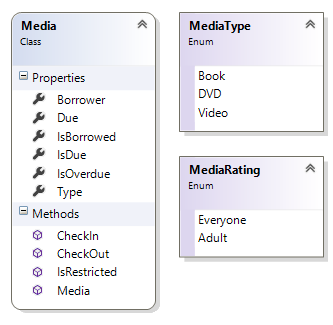
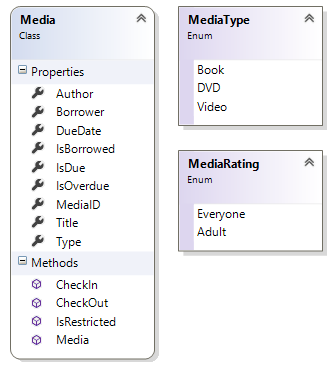
Updated media class design
This accounts for some new discoveries:
- "Due" could be misinterpreted as a status rather than a date.
- The library may one day want to know what each item's title and author
are.
- Being able to distinguish between multiple copies of an item may be
useful in some edge cases.

Changed region(s): [[0.0304, 0.0, 0.4863, 0.9846], [0.5167, 0.0, 1.0, 0.8308]]

diff --git a/Media.cs b/Media.cs
@@ -72,17 +72,47 @@ namespace SELibrary
         }
 
         /// <summary>
+        /// The item's unique ID.
+        /// </summary>
+        public uint MediaID
+        {
+            get; private set;
+        }
+
+        /// <summary>
         /// Gets the date the media is due.
         /// </summary>
         /// <exception cref="InvalidOperationException">
         /// Thrown if the media is not currently checked out.
         /// </exception>
-        public DateTime Due
+        public DateTime DueDate
         {
             get; private set;
         }
 
-        public Media(MediaType mType)
+        /// <summary>
+        /// The author of the work.
+        /// </summary>
+        public string Author
+        {
+            get; private set;
+        }
+
+        /// <summary>
+        /// The title of the work.
+        /// </summary>
+        public string Title
+        {
+            get; private set;
+        }
+
+        /// <summary>
+        /// Initializes a media object.
+        /// </summary>
+        /// <param name="mType">The type of the media.</param>
+        /// <param name="mAuthor">The author of the work.</param>
+        /// <param name="mTitle">The title of the work.</param>
+        public Media(MediaType mType, string mAuthor, string mTitle, string mIsbn)
         {
             throw new NotImplementedException();
         }
